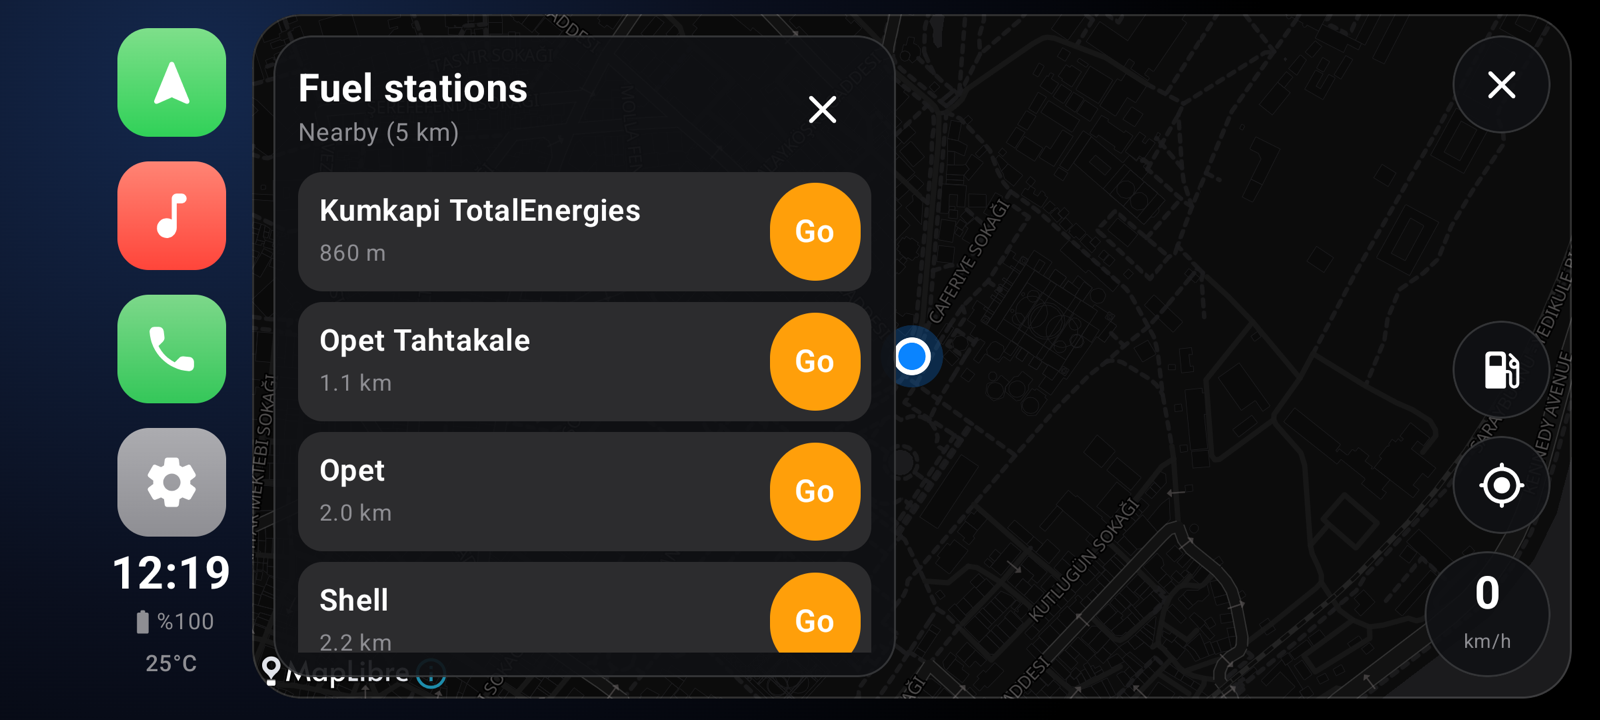
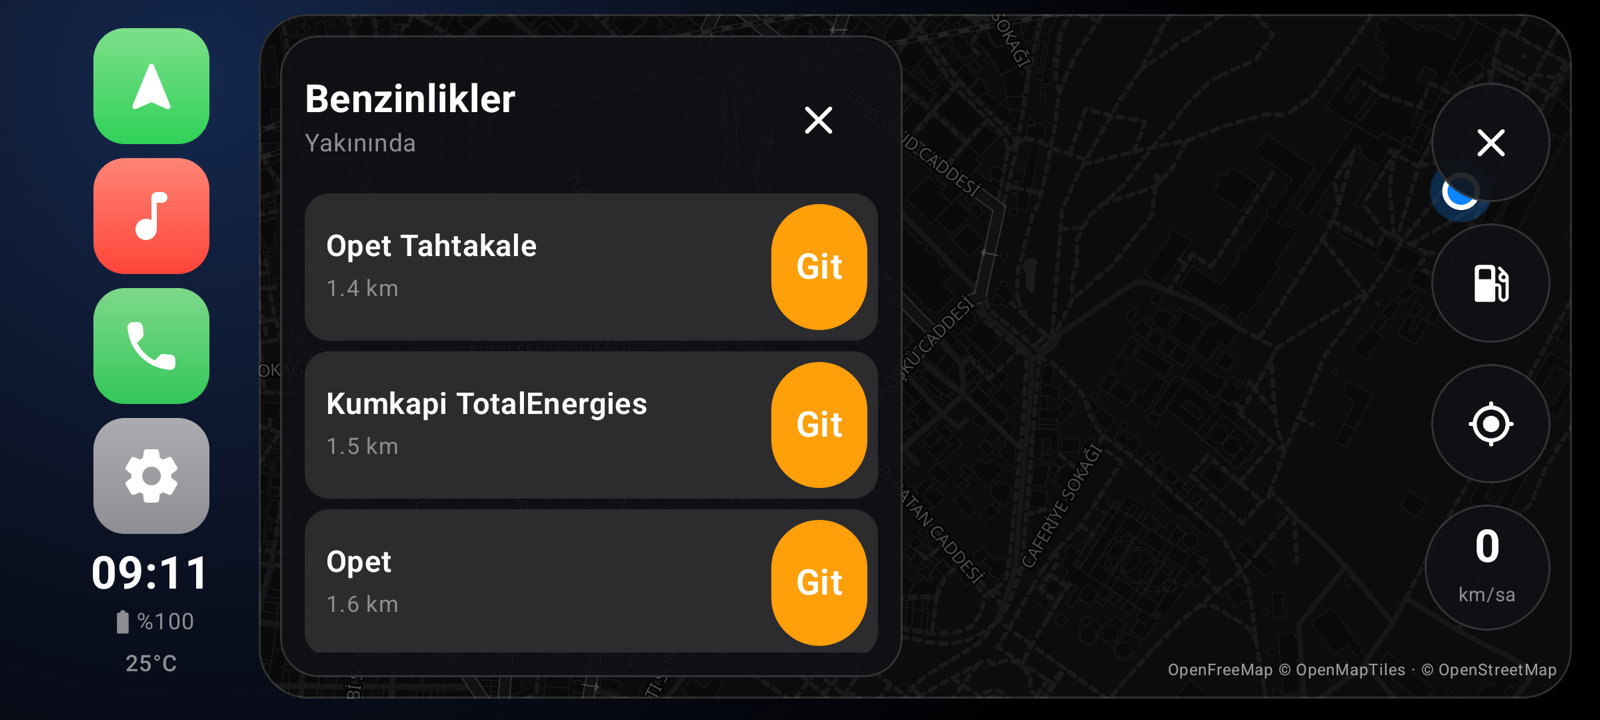
Refresh the README screenshots: Turkish UI, vehicle chooser and upright bicycle screen

diff --git a/README.md b/README.md
@@ -7,15 +7,21 @@ Motosiklet, araba ve bisiklet için CarPlay tarzı Android sürüş paneli (laun
 
 ![Dashboard](docs/screenshots/dashboard.png)
 
-| Rota | Navigasyon |
+| İlk açılışta araç seçimi | Rota |
 |---|---|
-| ![Rota](docs/screenshots/route.png) | ![Navigasyon](docs/screenshots/navigation.png) |
-| **Benzinlikler** |
-|---|
-| ![Benzinlikler](docs/screenshots/fuel.png) |
-| **SOS geri sayımı** |
-|---|
-| ![SOS](docs/screenshots/sos.png) |
+| ![Araç seçimi](docs/screenshots/vehicle.png) | ![Rota](docs/screenshots/route.png) |
+
+| Navigasyon | Benzinlikler |
+|---|---|
+| ![Navigasyon](docs/screenshots/navigation.png) | ![Benzinlikler](docs/screenshots/fuel.png) |
+
+| SOS geri sayımı | Güvenlik ayarları |
+|---|---|
+| ![SOS](docs/screenshots/sos.png) | ![Güvenlik ayarları](docs/screenshots/settings-safety.png) |
+
+Bisiklet profilinde telefon dik de durabilir:
+
+<img src="docs/screenshots/bicycle-portrait.png" alt="Dik bisiklet ana ekranı" width="240">
 
 ## Özellikler
 **Araç profilleri**
